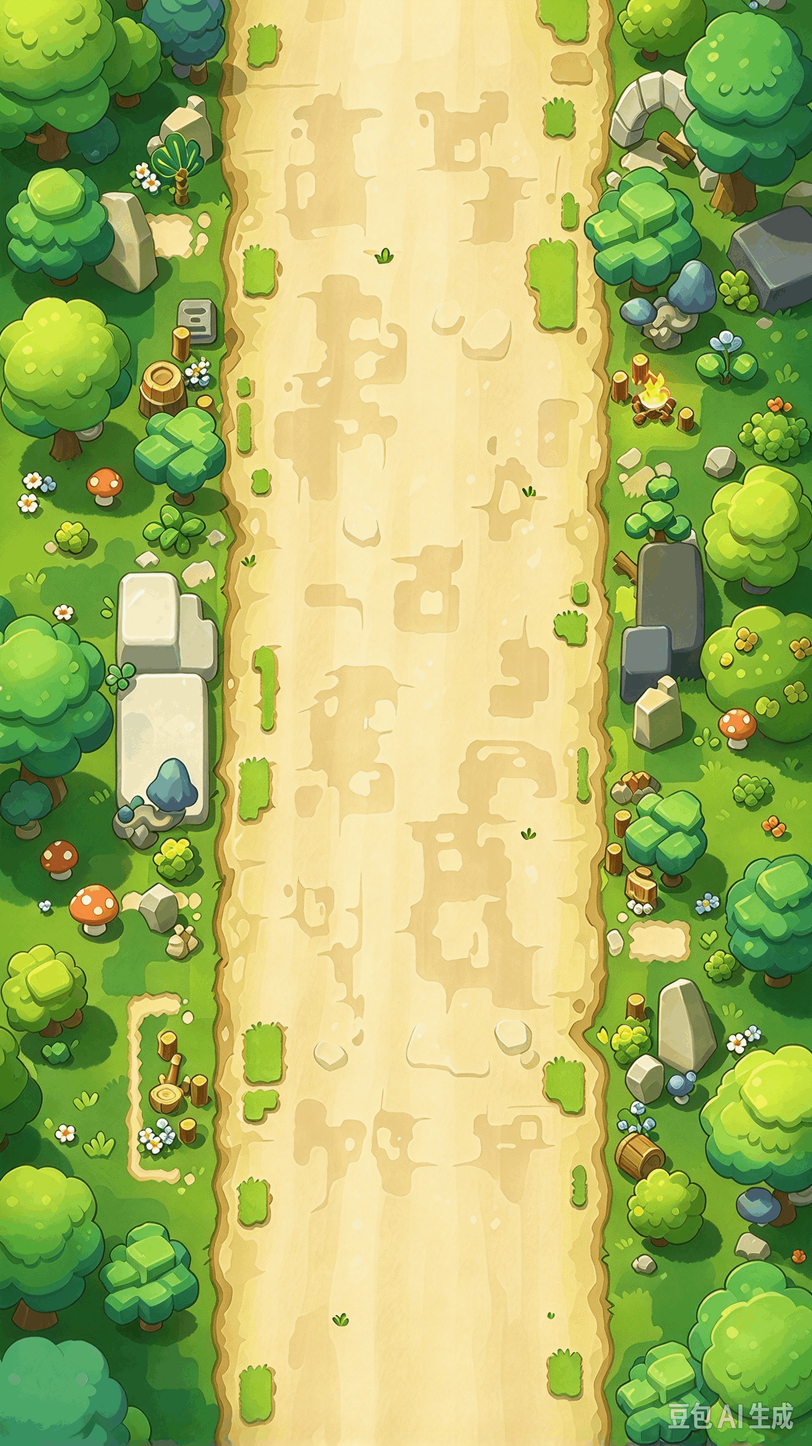
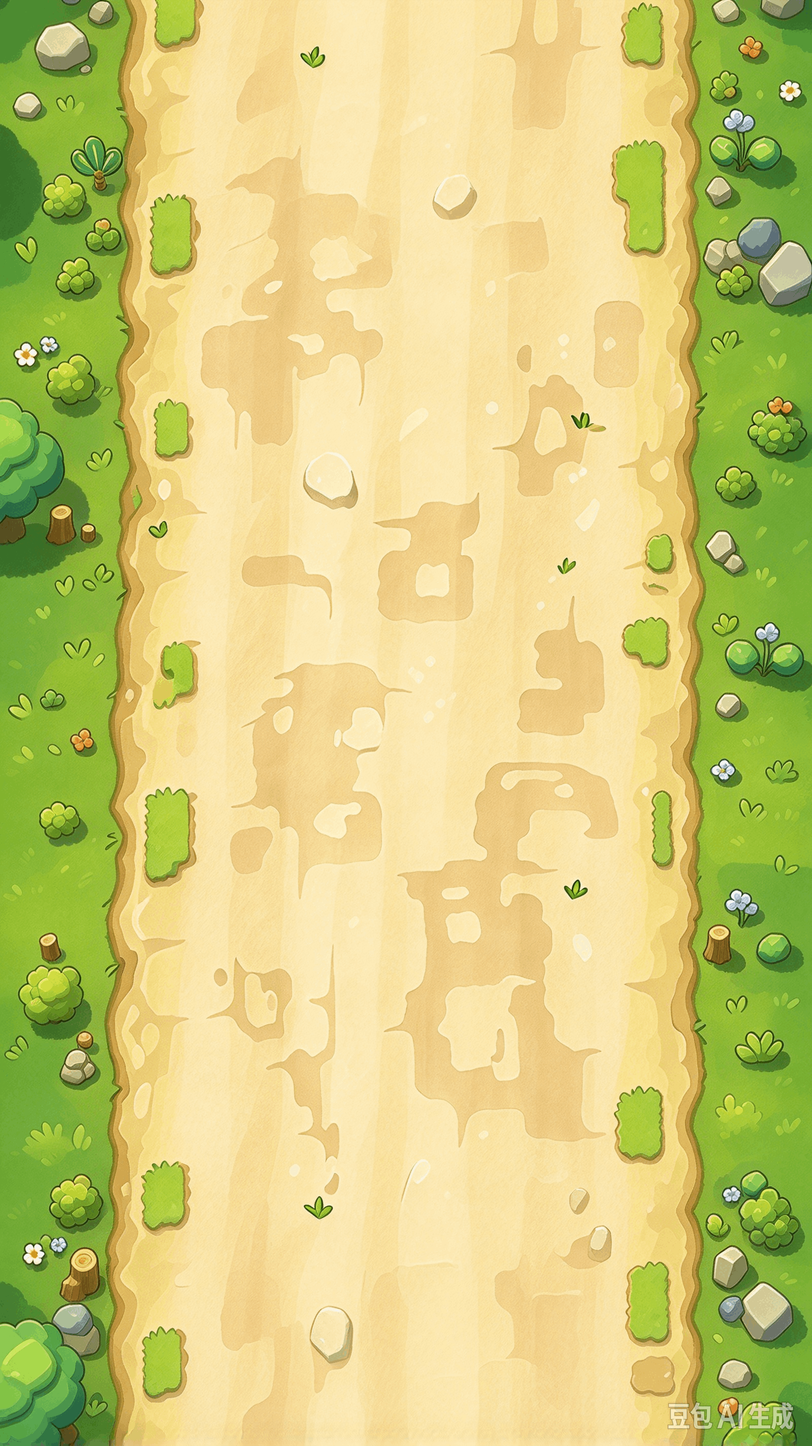
玩法优化

diff --git a/assets/scripts/Game/CommonGame/gameplay/core/EnemySim.ts b/assets/scripts/Game/CommonGame/gameplay/core/EnemySim.ts
@@ -73,6 +73,8 @@ export function stepEnemy(enemy: EnemyRuntime, dt: number, world: EnemyWorld): E
         }
 
         case EnemyState.Falling: {
+            // 被同列队首挡住时原地不动（队首恢复移动或被消灭后自动继续下落）
+            if (enemy.blocked) break;
             enemy.y -= enemy.speed * dt;
             if (hasCrossedDiveLine(enemy)) {
                 // 越线后进入 1 s 判定等待：站住不动，此时仍可被击杀（§9.4）
@@ -136,6 +138,38 @@ export function stepEnemy(enemy: EnemyRuntime, dt: number, world: EnemyWorld): E
     }
 
     return result;
+}
+
+/**
+ * 同列队首阻塞（需求）：同一列里最下面那只不能前进时（到底站住 Telegraph、或被技能定住），
+ * 排在它后面的（更靠上的）敌人也停下；队首恢复移动或被消灭后自动放行。
+ * 每帧调用一次，纯函数，原地改写 enemy.blocked。
+ */
+export function applyColumnBlocking(enemies: EnemyRuntime[]): void {
+    for (const e of enemies) e.blocked = false;
+    // y 小的在下：从最下面那只往上扫
+    const sorted = enemies.filter(e => e.state !== EnemyState.Dead).sort((a, b) => a.y - b.y);
+    for (let i = 0; i < sorted.length; i++) {
+        if (!isColumnStopped(sorted[i])) continue;
+        for (let j = i + 1; j < sorted.length; j++) {
+            if (columnsOverlap(sorted[i], sorted[j])) sorted[j].blocked = true;
+        }
+    }
+}
+
+/** 队首"停住"的条件：到底站住（Telegraph）或被技能定住（frozen） */
+function isColumnStopped(enemy: EnemyRuntime): boolean {
+    return enemy.state === EnemyState.Telegraph || enemy.frozen === true;
+}
+
+/** 两只敌人的列区间是否重叠（列区间重叠即视为同一列） */
+function columnsOverlap(a: EnemyRuntime, b: EnemyRuntime): boolean {
+    const half = GameTuning.cellSize * 0.5;
+    const aL = a.x - a.cols * half;
+    const aR = a.x + a.cols * half;
+    const bL = b.x - b.cols * half;
+    const bR = b.x + b.cols * half;
+    return aL < bR && bL < aR;
 }
 
 /** 开始俯冲：锁定玩家当前位置 */

diff --git a/assets/scripts/Game/CommonGame/gameplay/view/BattleView.ts b/assets/scripts/Game/CommonGame/gameplay/view/BattleView.ts
@@ -31,7 +31,7 @@ import {
     screenBounds,
 } from '../core/BoardMath';
 import { BulletWorld, aimVelocity, createBullet, stepBullet } from '../core/BulletSim';
-import { EnemyWorld, enemyVisualScale, isDead, isHittable, killEnemy, stepEnemy } from '../core/EnemySim';
+import { EnemyWorld, applyColumnBlocking, enemyVisualScale, isDead, isHittable, killEnemy, stepEnemy } from '../core/EnemySim';
 import {
     catchRadiusWithBonus,
     enemyCoinValue,
@@ -235,7 +235,6 @@ export class BattleView extends Component {
         this.m_FieldRoot = makeNode(this.node, 'Field');
         this.m_HudRoot = makeNode(this.node, 'Hud');
 
-        this.createBackground();
         this.createPlayerAndCursor();
         this.createHud();
         this.createWorlds();
@@ -249,13 +248,6 @@ export class BattleView extends Component {
 
         this.startWave(1);
         this.showTalentChoice();
-    }
-
-    private createBackground(): void {
-        const frame = getArt(this.m_Art, GameArtPath.background);
-        if (!frame) return;
-        const bg = createSprite(this.m_FieldRoot, 'Background', frame, GameTuning.designWidth, GameTuning.designHeight);
-        bg.setSiblingIndex(0);
     }
 
     private createPlayerAndCursor(): void {
@@ -540,6 +532,8 @@ export class BattleView extends Component {
         this.m_EnemyWorld.playerY = this.m_PlayerY;
 
         const dead: number[] = [];
+        // 同列队首阻塞：队首（最下面那只）停住时，同列后面的敌人一起停下
+        applyColumnBlocking(this.m_Enemies);
         for (let i = 0; i < this.m_Enemies.length; i++) {
             const enemy = this.m_Enemies[i];
             stepEnemy(enemy, d, this.m_EnemyWorld);

diff --git a/assets/scripts/Game/CommonGame/gameplay/core/GameTypes.ts b/assets/scripts/Game/CommonGame/gameplay/core/GameTypes.ts
@@ -140,6 +140,10 @@ export interface EnemyRuntime {
     /** 俯冲目标（锁定玩家当前位置） */
     diveTargetX: number;
     diveTargetY: number;
+    /** 被同列队首挡住（本帧不下落）：applyColumnBlocking 每帧计算 */
+    blocked?: boolean;
+    /** 被技能定住（预留：停止类技能置 true，同样阻塞同列后面的敌人） */
+    frozen?: boolean;
 }
 
 /** 掉落物运行时数据 */

diff --git a/docs/弹球Roguelike玩法策划案.md b/docs/弹球Roguelike玩法策划案.md
@@ -188,7 +188,7 @@
 | **格（cell）** | **128 × 128 px** | 全部体型与掉落距离的**基准单位**。品质底图素材（`white`/`green`/…）的原始尺寸，一格一张，精灵不缩放 |
 | 棋盘列数 | **5 列** | 棋盘宽 640 px，居中于 750，左右各留 55 px |
 | 坐标系 | 原点在屏幕中心 | 底边 y = −667，顶边 y = +667 |
-| 敌人出生线 | 生成带的**顶边** y = **+795**（可视区上边界 +667 再上一格 128） | 单格敌人盒子 = [667, 795]，下落 1px 即露头 |
+| 敌人出生线 | 生成带的**顶边** y = **+667**（= 棋盘顶部第一格） | 单格敌人盒子 = [667, 795]，下落 1px 即露头 |
 | **俯冲线 / 底线** | y = **−567**（距屏幕底 100 px） | 敌人**自身矩形底边**越过此线即进入判定流程（§9.4） |
 | 玩家出生点 | 距屏幕底部 **120 px** | |
 | 墙体 | 屏幕四周边缘 | 子弹撞墙镜面反弹；**底墙**是唯一触发"回身"的墙（§6.3） |
@@ -530,7 +530,8 @@ HP = 品质单格血量 × 占格数 × 类型血量倍率 × 难度血量倍率
 
 | 环节 | 规格 |
 |---|---|
-| **生成位置** | 从屏幕**顶部之外一格**（y = +795）进入，敌人是"走进来"而不是"凭空出现" |
+| **生成位置** | 直接在棋盘**顶部第一格**（y = +667）出生并缩放弹出，不再从屏幕外"走进来" |
+| **同列队首阻塞** | 同列最下面那只停住时（到底站住 Telegraph / 被技能定住 `frozen`），同列后面的敌人一并停下；它恢复移动或被消灭后自动放行（`applyColumnBlocking`） |
 | **排列方式** | 敌人**一行行排列**，棋盘 5 列；同一带的敌人按 `spawnStagger`（0.08 s）**按列**错峰入场（同列共享同一延迟） |
 | **入场动画** | 每个敌人播放**缩放弹出动画**：`scale 0.6 → 1.0`，时长 **0.25 s**，带轻微回弹（`backOut`） |
 | **行入场间隔** | **不写死时间**：新的一带要出生，先等已出生的内容下落「本带行数 × `rowGapCells`」格，即 `行数 × rowGapCells × cellSize ÷ 当前波下落速度`；`rowGapCells` 默认 **1.2**（一行 128px → 行距 153.6px，行与行留 25.6px 空隙） |
